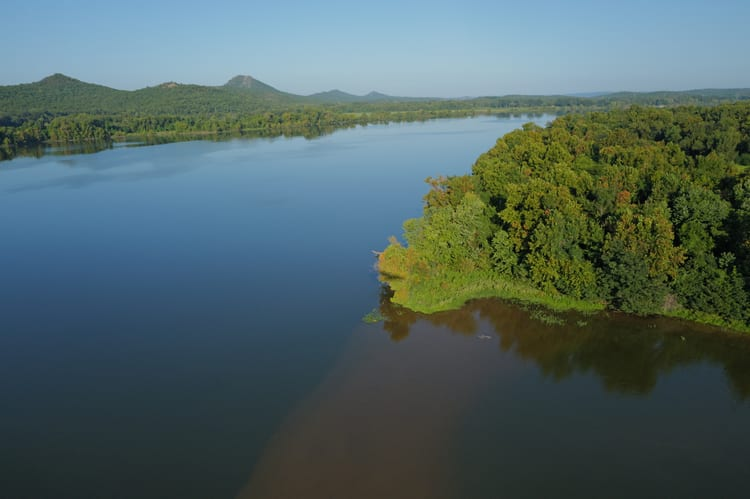
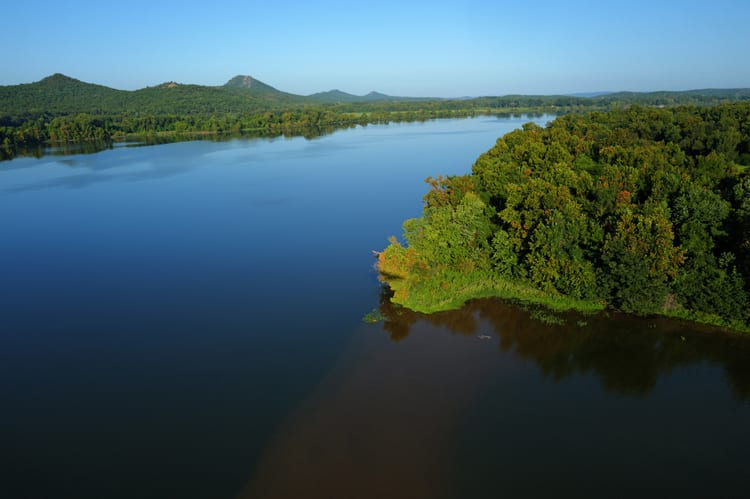
Version 163: Updated Flying

diff --git a/Site Guide.html b/Site Guide.html
@@ -502,6 +502,12 @@ vercel --prod # promotes to production</code></pre>
     <p>Most recent first. Hosted on Vercel, deployed from GitHub — every push to <code>main</code> goes live automatically within a minute or two.</p>
 
     <div class="version-entry">
+      <div class="version-head"><span class="version-num">Version 163</span><span class="version-date">Thursday, September 3, 2026</span></div>
+      <ul>
+        <li>Updated Flying</li>
+      </ul>
+    </div>
+    
       <div class="version-head"><span class="version-num">Version 162</span><span class="version-date">Thursday, September 3, 2026</span></div>
       <ul>
         <li>Added Fly Gallery</li>

diff --git a/Change Log.md b/Change Log.md
@@ -15,6 +15,10 @@ Last updated: Thursday, September 3, 2026
 
 ## Version history
 
+### Version 163 — Thursday, September 3, 2026
+
+- Updated Flying
+
 ### Version 162 — Thursday, September 3, 2026
 
 - Added Fly Gallery
